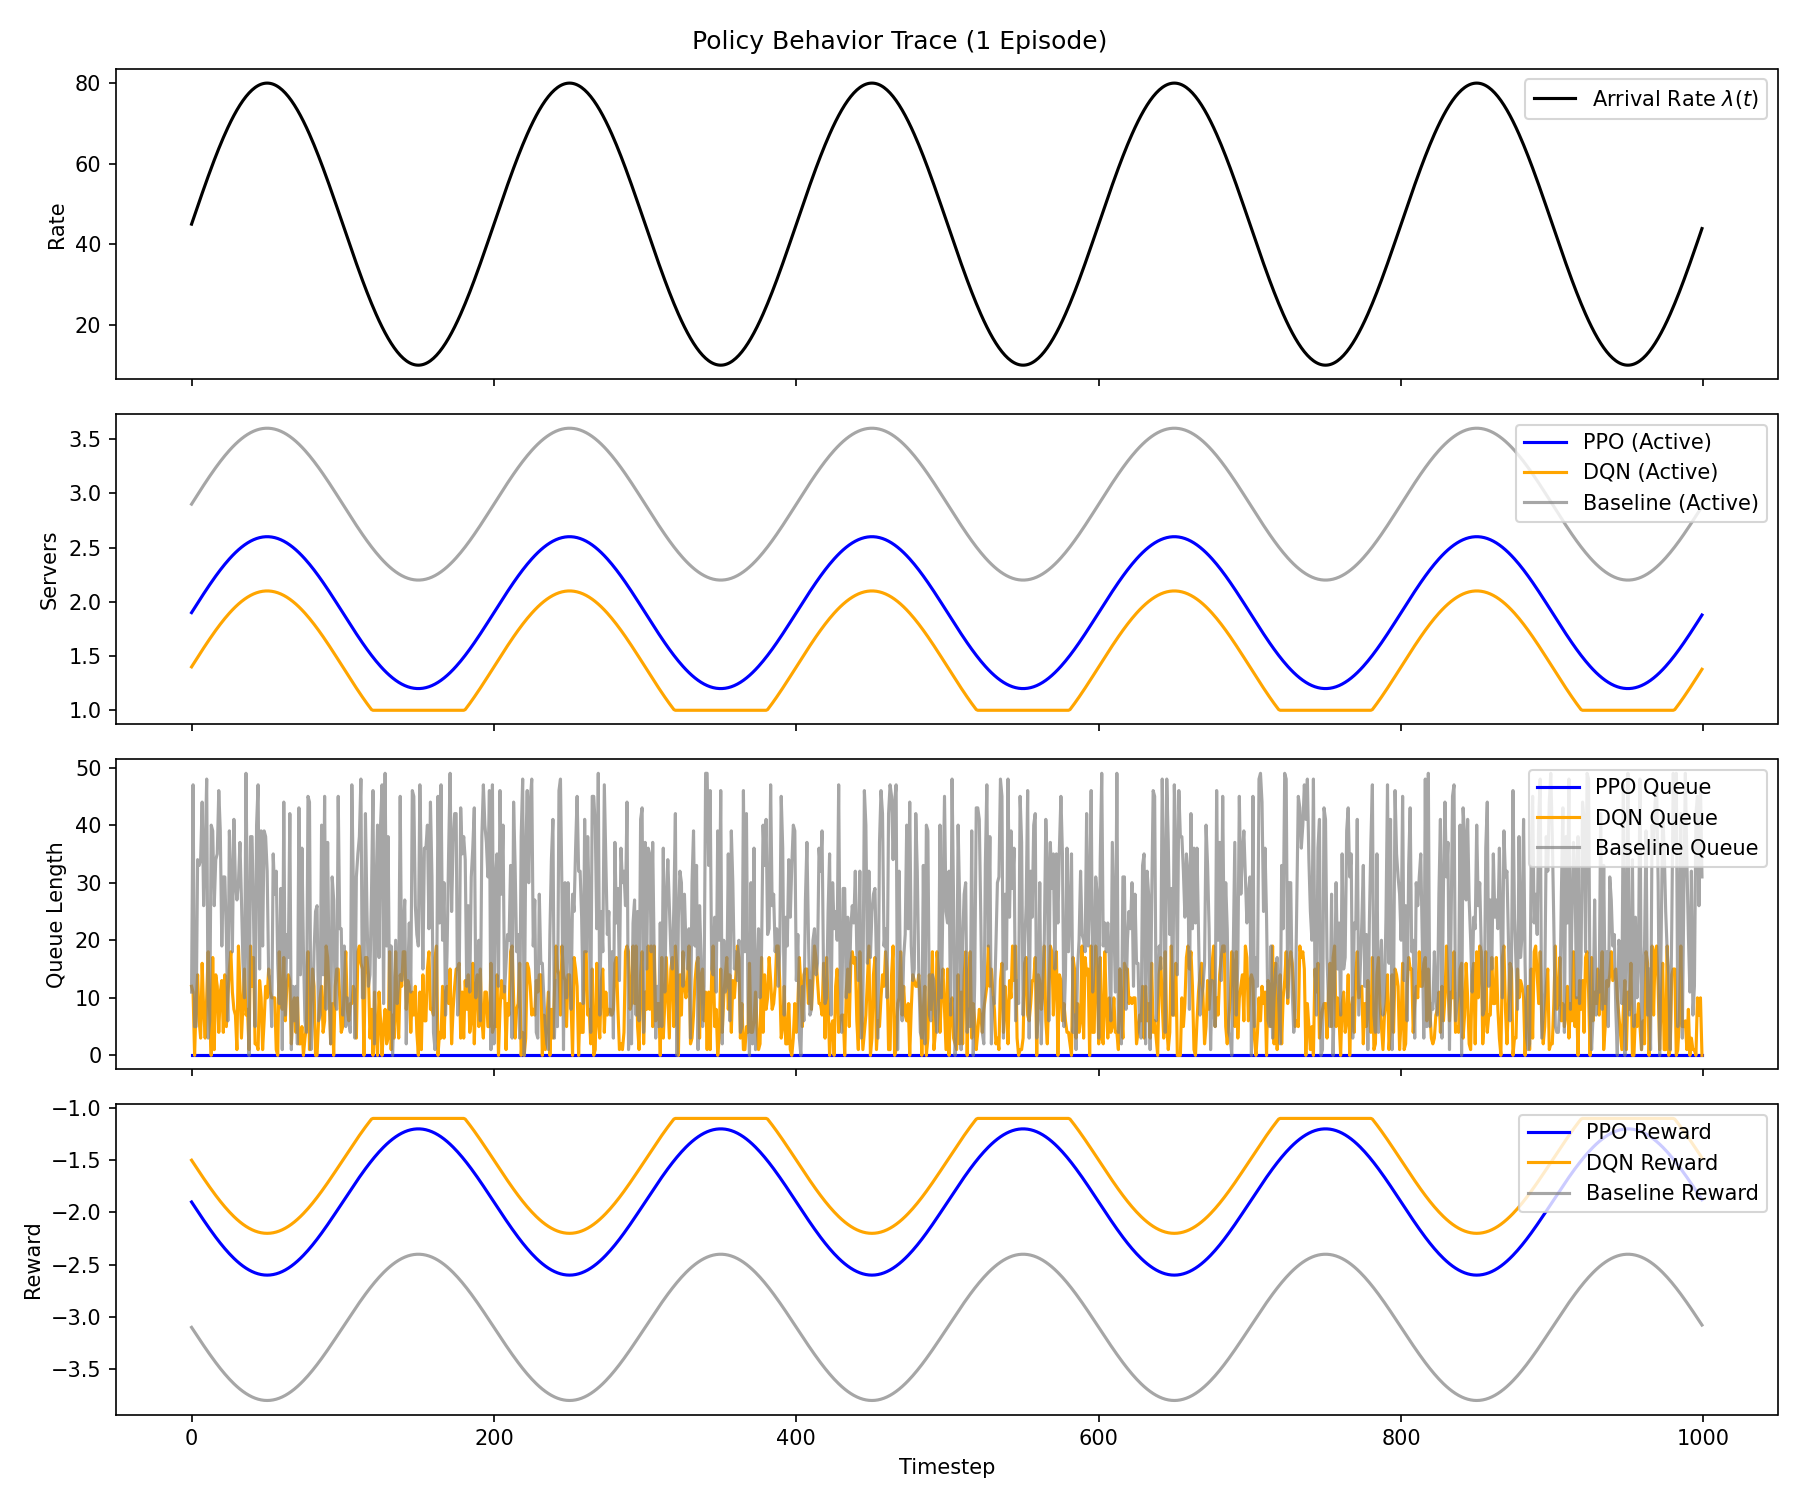
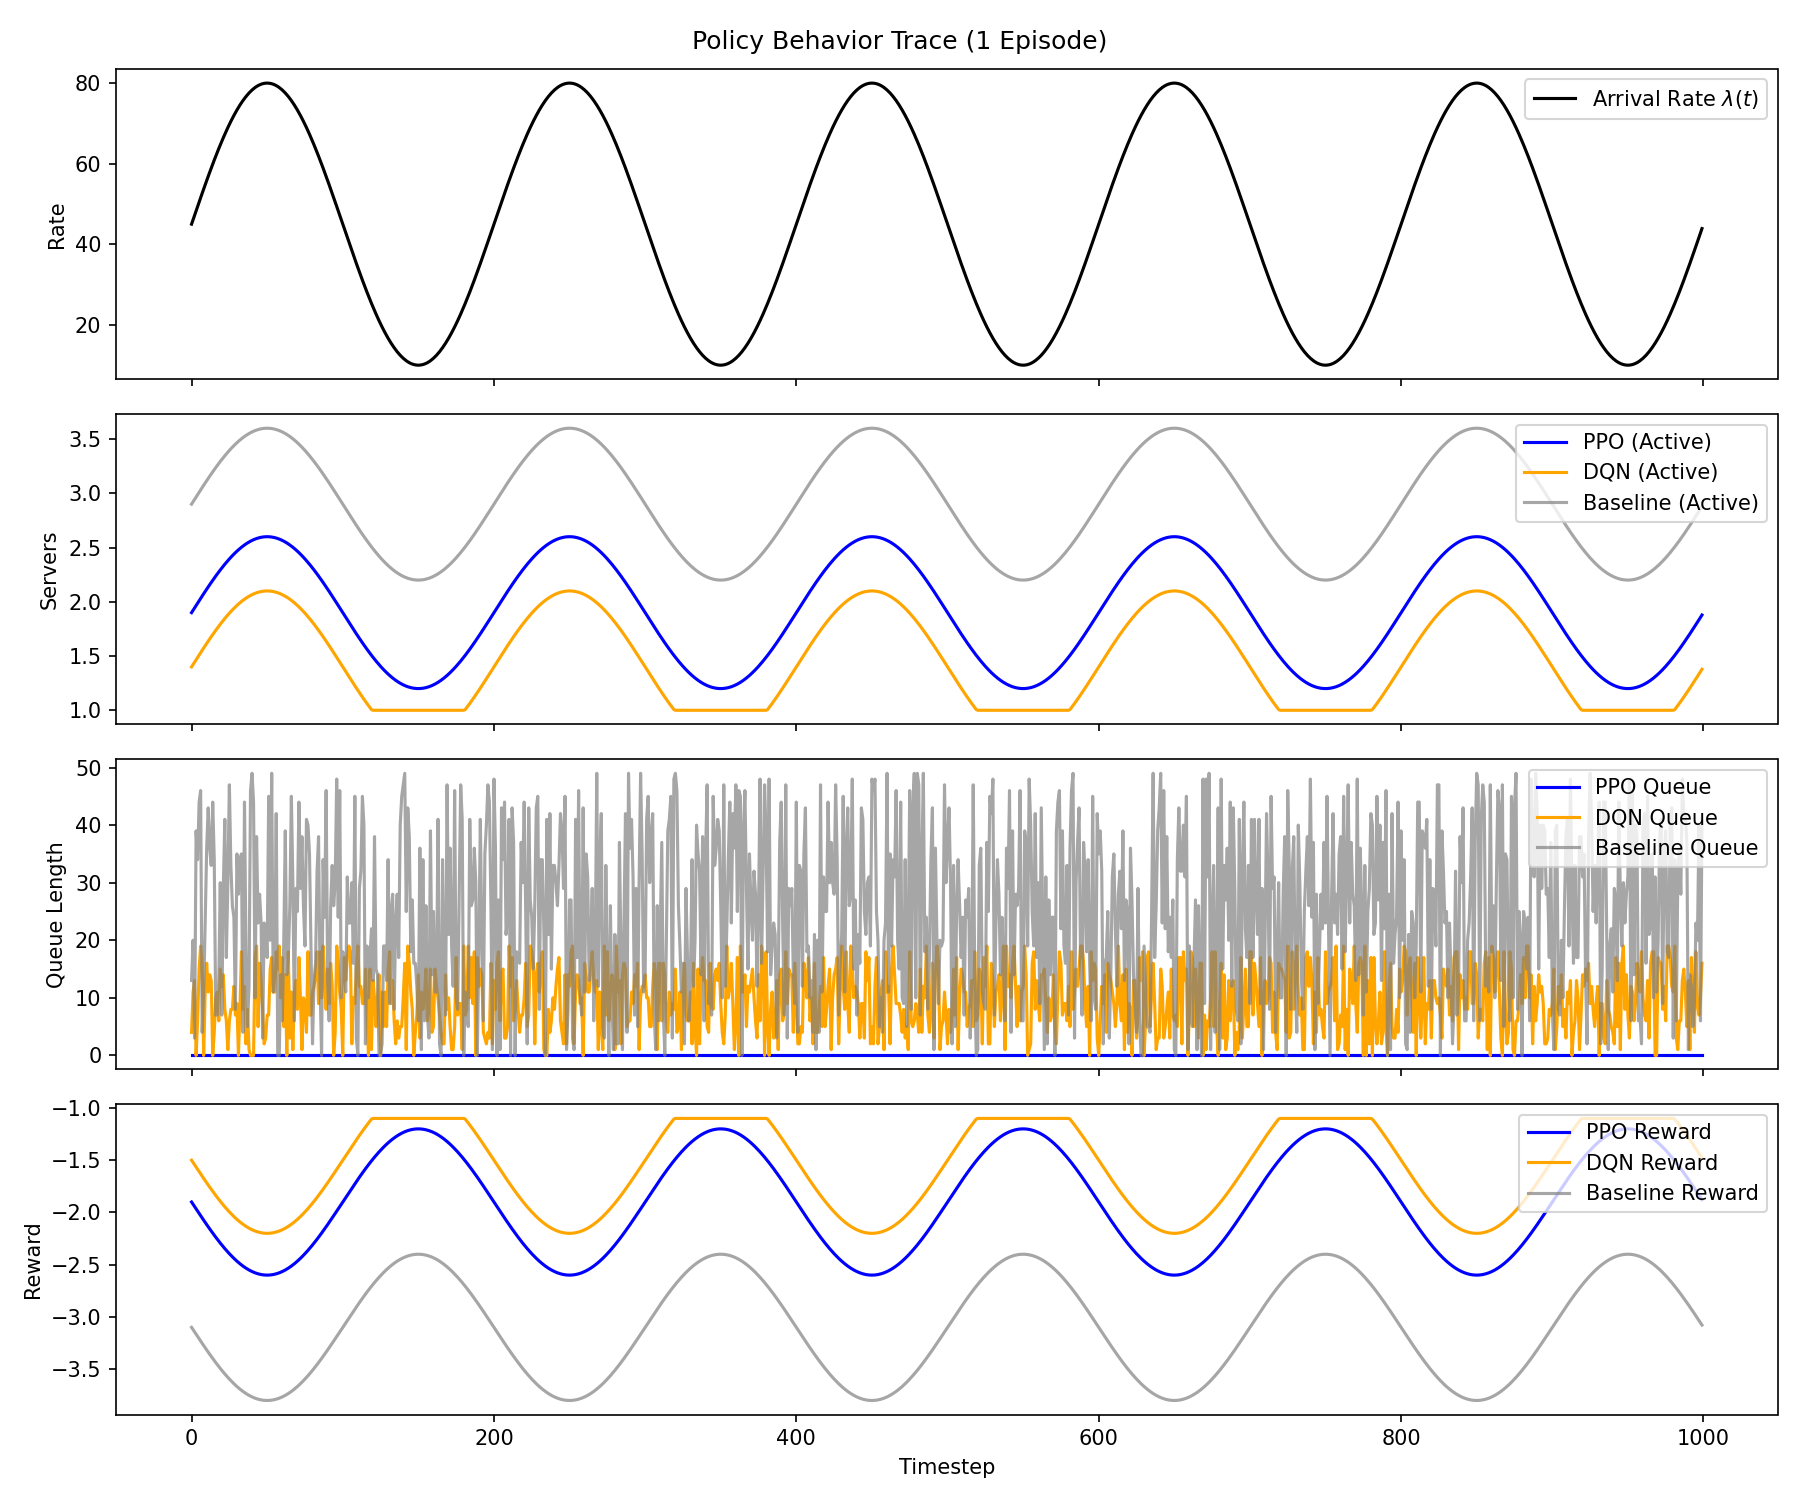
fix error in the notebook of run

Changed region(s): [[0.0933, 0.5213, 0.9644, 0.7053]]

diff --git a/plot_results.py b/plot_results.py
@@ -36,12 +36,12 @@ def generate_plot_1_learning_curves():
     ppo_steps, ppo_vals = load_eval_data("./logs/ppo_eval/evaluations.npz")
     dqn_steps, dqn_vals = load_eval_data("./logs/dqn_eval/evaluations.npz")
     
-    if ppo_steps:
+    if len(ppo_steps) > 0:
         plt.plot(ppo_steps, smooth(ppo_vals, 0.9), label="PPO", color="blue", linewidth=2)
         plt.fill_between(ppo_steps, np.array(smooth(ppo_vals, 0.9)) - np.std(ppo_vals)*0.2, 
                          np.array(smooth(ppo_vals, 0.9)) + np.std(ppo_vals)*0.2, color="blue", alpha=0.2)
                          
-    if dqn_steps:
+    if len(dqn_steps) > 0:
         plt.plot(dqn_steps, smooth(dqn_vals, 0.9), label="DQN", color="orange", linewidth=2)
         plt.fill_between(dqn_steps, np.array(smooth(dqn_vals, 0.9)) - np.std(dqn_vals)*0.2, 
                          np.array(smooth(dqn_vals, 0.9)) + np.std(dqn_vals)*0.2, color="orange", alpha=0.2)

diff --git a/TEAM_INTEGRATION_README.md b/TEAM_INTEGRATION_README.md
@@ -101,7 +101,7 @@ Just pass `MetricsCallback()` to `model.learn()` — no extra flush calls needed
 
 | Owner | Files | Ping for |
 |-------|-------|----------|
-| **Mahmoud** | `cloud_env.py`, `traffic.py`, `env_factory.py`, `baseline_agent.py`, `metrics_callback.py`, `run_baseline_eval.py` | Env bugs, reward tuning, factory changes |
+| **Mahmoud (Magnum)** | `cloud_env.py`, `traffic.py`, `env_factory.py`, `baseline_agent.py`, `metrics_callback.py`, `run_baseline_eval.py` | Env bugs, reward tuning, factory changes |
 | **Mohamed** | `train_ppo.py` (to build) | PPO hyperparams, learning curves |
 | **Shrouk** | `train_dqn.py`, `sparse_ppo.py` (to build) | DQN training, sparse update experiments |
 